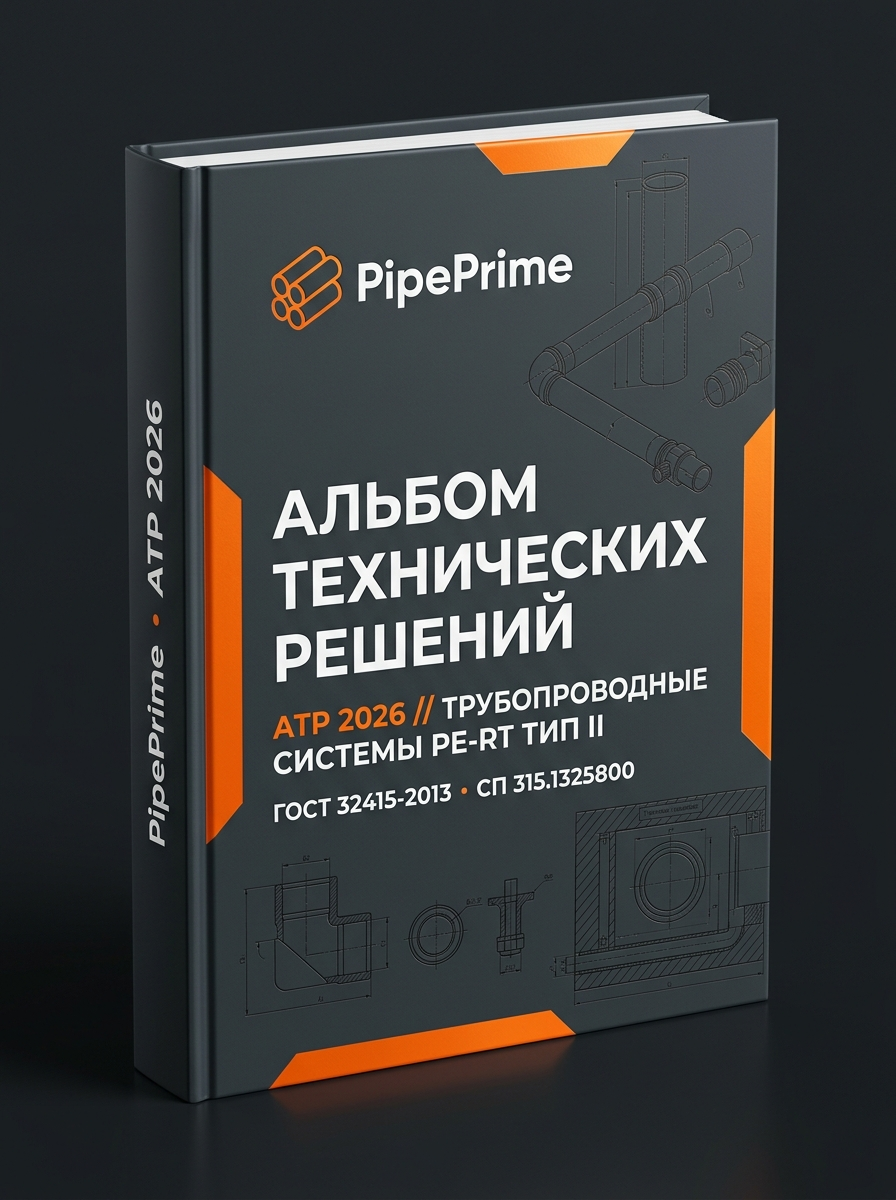
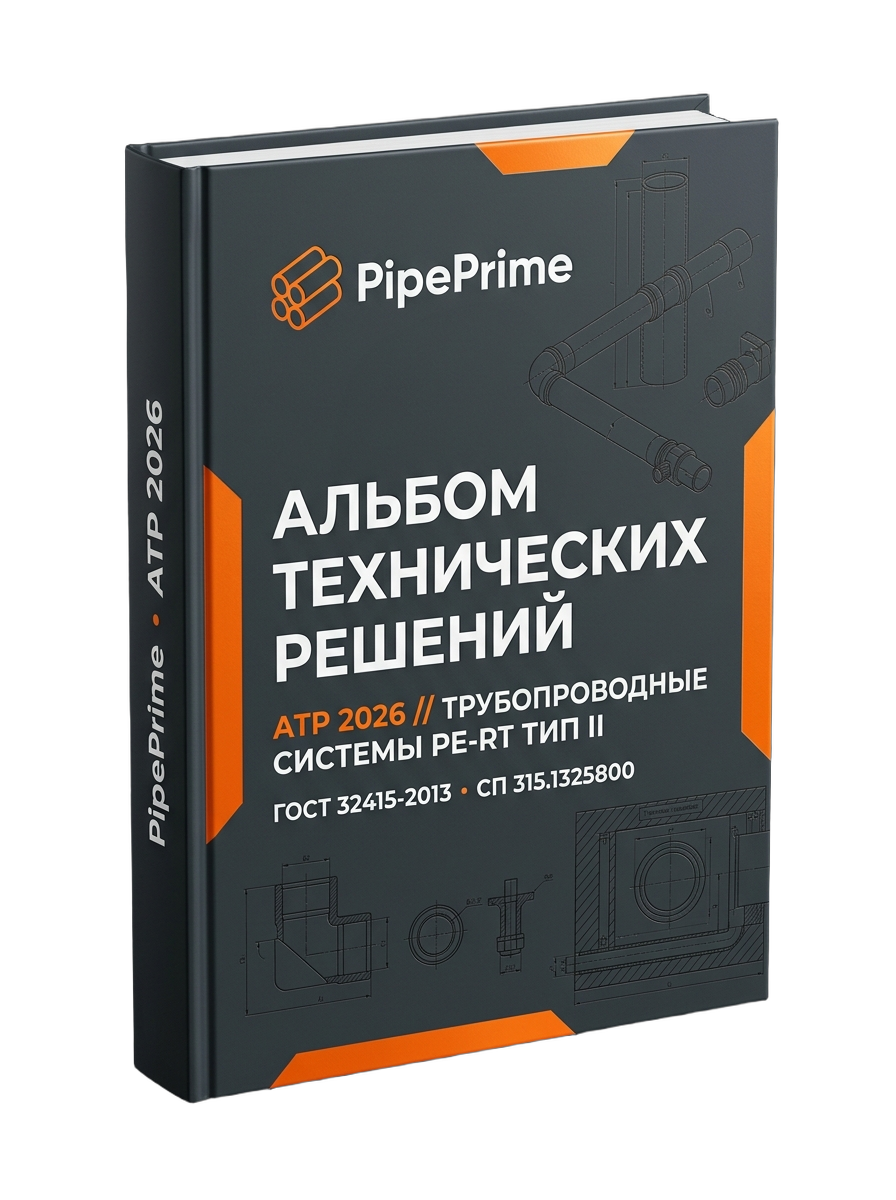
style: remove decorative heading dashes and isolate ATR 3D book cover without rectangular frame

diff --git a/assets/css/style.css b/assets/css/style.css
@@ -182,9 +182,7 @@ button, input, select, textarea {
 /* Строгие инженерные подзаголовки (НЕ капсулы) */
 .subheading-kicker,
 .section-subtitle {
-  display: inline-flex;
-  align-items: center;
-  gap: 8px;
+  display: inline-block;
   color: var(--accent-primary);
   font-size: 0.82rem;
   font-weight: 700;
@@ -193,24 +191,9 @@ button, input, select, textarea {
   margin-bottom: 12px;
 }
 
-.subheading-kicker::before,
-.section-subtitle::before {
-  content: '';
-  display: inline-block;
-  width: 18px;
-  height: 2px;
-  background: var(--accent-primary);
-  border-radius: 1px;
-}
-
 .subheading-kicker--blue,
 .section-subtitle--blue {
   color: #60a5fa;
-}
-
-.subheading-kicker--blue::before,
-.section-subtitle--blue::before {
-  background: #60a5fa;
 }
 
 /* Строгий технический тег (прямоугольный с микро-скруглением 4px, не пузырь) */
@@ -1207,23 +1190,7 @@ button, input, select, textarea {
   text-transform: uppercase;
   letter-spacing: 0.1em;
   margin-bottom: 10px;
-  display: flex;
-  align-items: center;
-  gap: 8px;
-}
-
-.section-header__subtitle::before {
-  content: '';
-  width: 20px;
-  height: 2px;
-  background: var(--accent-primary);
-}
-
-.section-header--center .section-header__subtitle::after {
-  content: '';
-  width: 20px;
-  height: 2px;
-  background: var(--accent-primary);
+  display: block;
 }
 
 .section-header__title {
@@ -1646,18 +1613,21 @@ button, input, select, textarea {
 }
 
 .atr-preview__book {
-  width: 275px;
+  width: 285px;
+  max-width: 100%;
   height: auto;
-  border-radius: var(--radius-md);
-  box-shadow: 0 24px 48px rgba(0, 0, 0, 0.7);
-  border: 1px solid rgba(255, 255, 255, 0.12);
-  transition: transform 0.4s cubic-bezier(0.16, 1, 0.3, 1), box-shadow 0.4s ease;
+  background: transparent;
+  border: none;
+  border-radius: 0;
+  box-shadow: none;
+  filter: drop-shadow(0 20px 35px rgba(0, 0, 0, 0.85));
+  transition: transform 0.4s cubic-bezier(0.16, 1, 0.3, 1), filter 0.4s ease;
   display: block;
 }
 
 .atr-preview:hover .atr-preview__book {
-  transform: translateY(-6px) scale(1.03);
-  box-shadow: 0 32px 64px rgba(0, 0, 0, 0.85), 0 0 35px rgba(255, 107, 0, 0.25);
+  transform: translateY(-8px) scale(1.02);
+  filter: drop-shadow(0 28px 45px rgba(0, 0, 0, 0.95)) drop-shadow(0 0 25px rgba(255, 107, 0, 0.3));
 }
 
 /* ==========================================================================

diff --git a/engineering.html b/engineering.html
@@ -5,8 +5,8 @@
   <meta name="viewport" content="width=device-width, initial-scale=1.0">
   <title>Инженерные решения и Альбом технических решений (АТР 2026) — PipePrime</title>
   <meta name="description" content="Официальная инженерная база типовых технических решений для проектирования сетей отопления и ГВС из напорных труб PE-RT тип II (АТР 2026). Интерактивные узлы, ведомости материалов (BOM), нормативная база СП 315, СП 124, ГОСТ 32415-2013.">
-  <link rel="stylesheet" href="assets/css/style.css?v=13">
-  <link rel="stylesheet" href="assets/css/solutions.css?v=3">
+  <link rel="stylesheet" href="assets/css/style.css?v=14">
+  <link rel="stylesheet" href="assets/css/solutions.css?v=4">
   <!-- Favicons -->
   <link rel="icon" type="image/svg+xml" href="assets/images/favicon.svg">
   <link rel="icon" type="image/png" sizes="32x32" href="assets/images/favicon-32x32.png">
@@ -92,8 +92,8 @@
         </div>
         <div class="atr-preview">
           <picture>
-            <source srcset="assets/images/atr_cover.webp?v=2" type="image/webp">
-            <img src="assets/images/atr_cover.png?v=2" alt="Альбом технических решений PipePrime (АТР 2026)" class="atr-preview__book" loading="lazy">
+            <source srcset="assets/images/atr_cover.webp?v=3" type="image/webp">
+            <img src="assets/images/atr_cover.png?v=3" alt="Альбом технических решений PipePrime (АТР 2026)" class="atr-preview__book" loading="lazy">
           </picture>
         </div>
       </div>

diff --git a/index.html b/index.html
@@ -13,9 +13,9 @@
   <meta property="og:image" content="assets/images/hero_warehouse.jpg">
 
   <!-- CSS Design System -->
-  <link rel="stylesheet" href="assets/css/style.css?v=13">
+  <link rel="stylesheet" href="assets/css/style.css?v=14">
   <link rel="stylesheet" href="assets/css/catalog.css?v=11">
-  <link rel="stylesheet" href="assets/css/solutions.css?v=3">
+  <link rel="stylesheet" href="assets/css/solutions.css?v=4">
   <!-- Favicons -->
   <link rel="icon" type="image/svg+xml" href="assets/images/favicon.svg">
   <link rel="icon" type="image/png" sizes="32x32" href="assets/images/favicon-32x32.png">
@@ -761,8 +761,8 @@
 
         <div class="atr-preview">
           <picture>
-            <source srcset="assets/images/atr_cover.webp?v=2" type="image/webp">
-            <img src="assets/images/atr_cover.png?v=2" alt="Альбом технических решений PipePrime (АТР 2026)" class="atr-preview__book" loading="lazy">
+            <source srcset="assets/images/atr_cover.webp?v=3" type="image/webp">
+            <img src="assets/images/atr_cover.png?v=3" alt="Альбом технических решений PipePrime (АТР 2026)" class="atr-preview__book" loading="lazy">
           </picture>
         </div>
       </div>

diff --git a/solutions-steel-connection.html b/solutions-steel-connection.html
@@ -6,8 +6,8 @@
   <title>Узлы подключения труб PE-RT к стали и арматуре (Фланцы, НСПС) — АТР 2026 | PipePrime</title>
   <meta name="description" content="Типовые технические решения сопряжения напорных труб PE-RT тип II со стальными теплосетями и запорной арматурой по АТР 2026: фланцевые переходы, неразъемные соединения пластик-сталь (НСПС), регламент сварки по СП 40-102-2000. Интерактивная спецификация комплектующих.">
   <link rel="canonical" href="https://pipeprime.ru/solutions-steel-connection.html">
-  <link rel="stylesheet" href="assets/css/style.css?v=12">
-  <link rel="stylesheet" href="assets/css/solutions.css?v=3">
+  <link rel="stylesheet" href="assets/css/style.css?v=14">
+  <link rel="stylesheet" href="assets/css/solutions.css?v=4">
   <!-- Favicons -->
   <link rel="icon" type="image/svg+xml" href="assets/images/favicon.svg">
   <link rel="icon" type="image/png" sizes="32x32" href="assets/images/favicon-32x32.png">

diff --git a/solutions-snow-melting.html b/solutions-snow-melting.html
@@ -6,8 +6,8 @@
   <title>Системы снеготаяния и подогрева футбольных полей — АТР 2026 | PipePrime</title>
   <meta name="description" content="Инженерный расчет и готовые комплекты систем снеготаяния и обогрева футбольных полей (105х68 м) на трубах PE-RT тип II по АТР 2026. Расчет тепловой мощности по закону Ньютона-Рихмана, распределительные коллекторы ø63–215 мм, шаг укладки 150 мм. Интерактивная смета.">
   <link rel="canonical" href="https://pipeprime.ru/solutions-snow-melting.html">
-  <link rel="stylesheet" href="assets/css/style.css?v=12">
-  <link rel="stylesheet" href="assets/css/solutions.css?v=3">
+  <link rel="stylesheet" href="assets/css/style.css?v=14">
+  <link rel="stylesheet" href="assets/css/solutions.css?v=4">
   <!-- Favicons -->
   <link rel="icon" type="image/svg+xml" href="assets/images/favicon.svg">
   <link rel="icon" type="image/png" sizes="32x32" href="assets/images/favicon-32x32.png">

diff --git a/solutions-aboveground-racks.html b/solutions-aboveground-racks.html
@@ -6,8 +6,8 @@
   <title>Надземная прокладка труб PE-RT на эстакадах в ППУ-ОЦ — АТР 2026 | PipePrime</title>
   <meta name="description" content="Инженерные решения надземной прокладки трубопроводов PE-RT тип II в оцинкованной оболочке ППУ-ОЦ по эстакадам и опорам по АТР 2026. Таблицы подбора несущих швеллеров от провисания при +95°С, U-образные хомуты, расчет шага опор. Интерактивная ведомость BOM.">
   <link rel="canonical" href="https://pipeprime.ru/solutions-aboveground-racks.html">
-  <link rel="stylesheet" href="assets/css/style.css?v=12">
-  <link rel="stylesheet" href="assets/css/solutions.css?v=3">
+  <link rel="stylesheet" href="assets/css/style.css?v=14">
+  <link rel="stylesheet" href="assets/css/solutions.css?v=4">
   <!-- Favicons -->
   <link rel="icon" type="image/svg+xml" href="assets/images/favicon.svg">
   <link rel="icon" type="image/png" sizes="32x32" href="assets/images/favicon-32x32.png">

diff --git a/solutions-casing-trenchless.html b/solutions-casing-trenchless.html
@@ -6,8 +6,8 @@
   <title>Прокладка труб PE-RT в футлярах под дорогами и ГНБ — АТР 2026 | PipePrime</title>
   <meta name="description" content="Инженерные правила прокладки напорных труб PE-RT тип II в защитных футлярах под автомобильными и железными дорогами по АТР 2026. Таблицы подбора стальных футляров, опорно-направляющие кольца ОНК, манжеты герметизации ТУМ. Интерактивная смета узла.">
   <link rel="canonical" href="https://pipeprime.ru/solutions-casing-trenchless.html">
-  <link rel="stylesheet" href="assets/css/style.css?v=12">
-  <link rel="stylesheet" href="assets/css/solutions.css?v=3">
+  <link rel="stylesheet" href="assets/css/style.css?v=14">
+  <link rel="stylesheet" href="assets/css/solutions.css?v=4">
   <!-- Favicons -->
   <link rel="icon" type="image/svg+xml" href="assets/images/favicon.svg">
   <link rel="icon" type="image/png" sizes="32x32" href="assets/images/favicon-32x32.png">

diff --git a/solutions-fixed-anchors.html b/solutions-fixed-anchors.html
@@ -6,8 +6,8 @@
   <title>Неподвижные опоры и монолитные упорные блоки для труб PE-RT — АТР 2026 | PipePrime</title>
   <meta name="description" content="Инженерный расчет и схемы армирования монолитных железобетонных неподвижных опор (НО) для тепловых сетей из труб PE-RT тип II по АТР 2026. Габариты упорных блоков B25 для 1 и 2 труб, U-образные хомуты, расчет осевых нагрузок по СП 124.13330.">
   <link rel="canonical" href="https://pipeprime.ru/solutions-fixed-anchors.html">
-  <link rel="stylesheet" href="assets/css/style.css?v=12">
-  <link rel="stylesheet" href="assets/css/solutions.css?v=3">
+  <link rel="stylesheet" href="assets/css/style.css?v=14">
+  <link rel="stylesheet" href="assets/css/solutions.css?v=4">
   <!-- Favicons -->
   <link rel="icon" type="image/svg+xml" href="assets/images/favicon.svg">
   <link rel="icon" type="image/png" sizes="32x32" href="assets/images/favicon-32x32.png">

diff --git a/solutions-heat-chambers.html b/solutions-heat-chambers.html
@@ -6,8 +6,8 @@
   <title>Типовые тепловые камеры для труб PE-RT (Т1/Т2) — АТР 2026 | PipePrime</title>
   <meta name="description" content="Инженерная компоновка тепловых камер для напорных полимерных трубопроводов PE-RT тип II по АТР 2026: обвязка магистралей Т1/Т2, спускники, воздушники, герметизация стеновых вводов, спецификация оборудования. Интерактивная смета узла.">
   <link rel="canonical" href="https://pipeprime.ru/solutions-heat-chambers.html">
-  <link rel="stylesheet" href="assets/css/style.css?v=12">
-  <link rel="stylesheet" href="assets/css/solutions.css?v=3">
+  <link rel="stylesheet" href="assets/css/style.css?v=14">
+  <link rel="stylesheet" href="assets/css/solutions.css?v=4">
   <!-- Favicons -->
   <link rel="icon" type="image/svg+xml" href="assets/images/favicon.svg">
   <link rel="icon" type="image/png" sizes="32x32" href="assets/images/favicon-32x32.png">

diff --git a/catalog.html b/catalog.html
@@ -5,7 +5,7 @@
   <meta name="viewport" content="width=device-width, initial-scale=1.0">
   <title>Каталог полимерных труб PE-RT тип II и фитингов — PipePrime</title>
   <meta name="description" content="Интерактивный каталог напорных труб PE-RT тип II (d25–630 мм), предизолированных труб в ППУ/ПЭ и ППУ/ОЦ, гибких систем в гофре, электросварных и литых фитингов по стандарту АТР 2026. Оптовые цены, технические характеристики, поставка по РФ.">
-  <link rel="stylesheet" href="assets/css/style.css?v=11">
+  <link rel="stylesheet" href="assets/css/style.css?v=14">
   <link rel="stylesheet" href="assets/css/catalog.css?v=11">
   <!-- Favicons -->
   <link rel="icon" type="image/svg+xml" href="assets/images/favicon.svg">

diff --git a/about.html b/about.html
@@ -5,7 +5,7 @@
   <meta name="viewport" content="width=device-width, initial-scale=1.0">
   <title>О компании PipePrime — Поставщик полимерных труб для теплосетей</title>
   <meta name="description" content="PipePrime — надежный B2B-дистрибьютор полимерных трубопроводных систем PE-RT тип II для объектов теплоснабжения. Оптовые цены, прямые поставки с заводов, 100% комплектация под ключ по АТР 2026.">
-  <link rel="stylesheet" href="assets/css/style.css?v=9">
+  <link rel="stylesheet" href="assets/css/style.css?v=14">
   <!-- Favicons -->
   <link rel="icon" type="image/svg+xml" href="assets/images/favicon.svg">
   <link rel="icon" type="image/png" sizes="32x32" href="assets/images/favicon-32x32.png">

diff --git a/delivery.html b/delivery.html
@@ -5,7 +5,7 @@
   <meta name="viewport" content="width=device-width, initial-scale=1.0">
   <title>Оплата и доставка полимерных труб для теплосетей — PipePrime</title>
   <meta name="description" content="Условия оптовой поставки труб PE-RT тип II и ППУ-фасонины по России. Отсрочка платежа до 60 дней, факторинг, доставка еврофурами 13.6м с кониками, нормы погрузки по стандарту АТР 2026.">
-  <link rel="stylesheet" href="assets/css/style.css?v=9">
+  <link rel="stylesheet" href="assets/css/style.css?v=14">
   <!-- Favicons -->
   <link rel="icon" type="image/svg+xml" href="assets/images/favicon.svg">
   <link rel="icon" type="image/png" sizes="32x32" href="assets/images/favicon-32x32.png">
